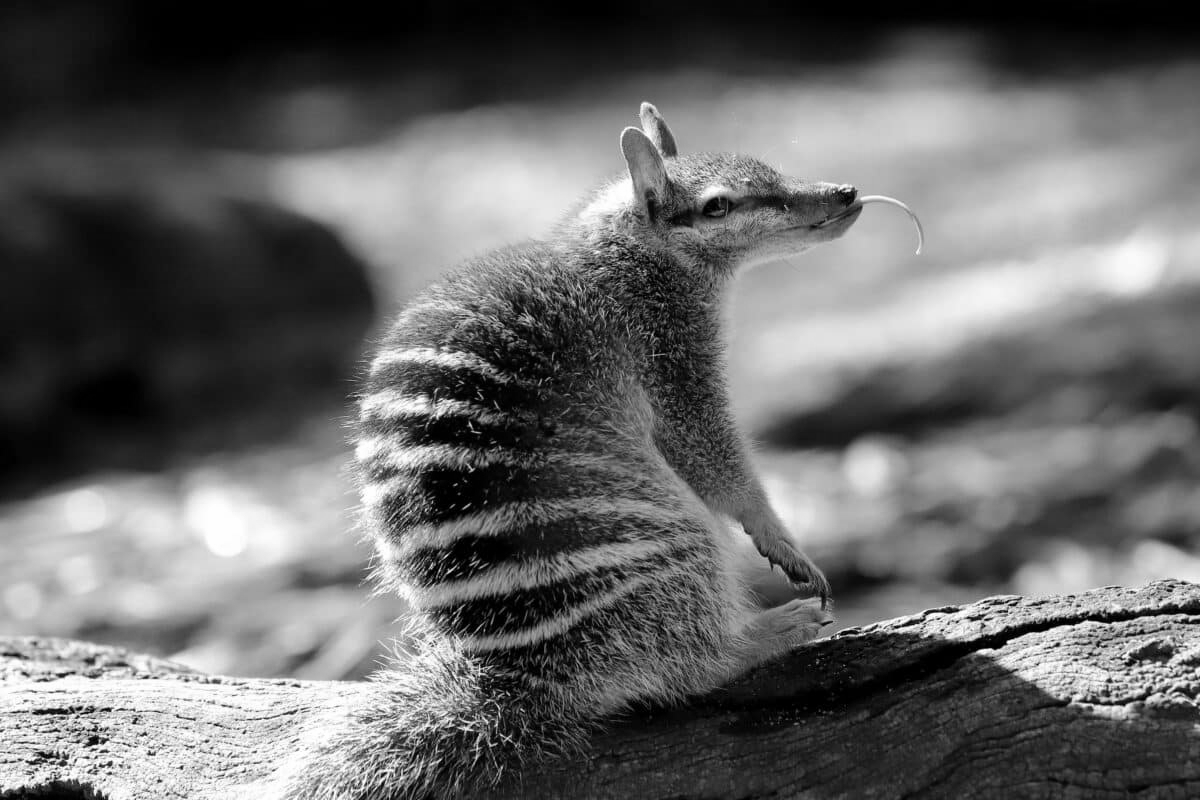
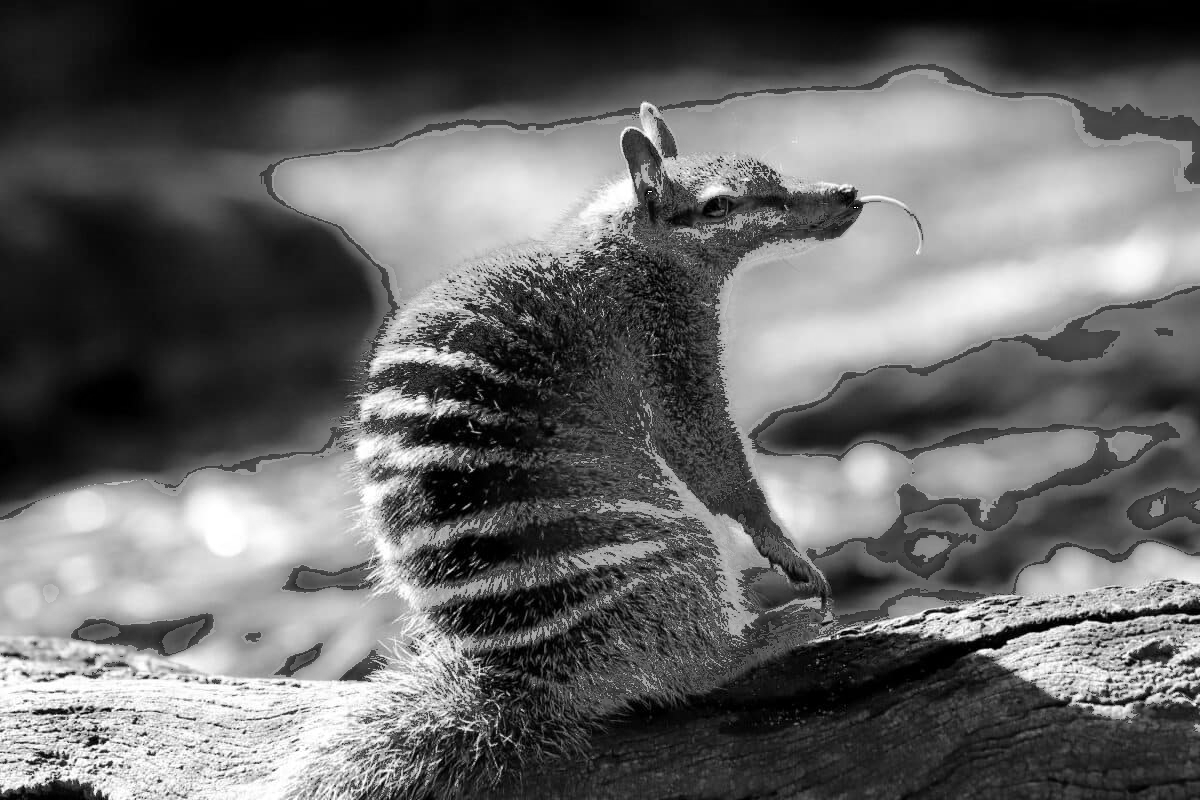
I think there's something wronng with my kernel calculation, trying to fix it

diff --git a/edgeDetection/edgeDetectionSequential/canny_sequential.cpp b/edgeDetection/edgeDetectionSequential/canny_sequential.cpp
@@ -23,11 +23,9 @@
 constexpr int kernelSize = 5;
 
 void cannyEdgeDetection (int filterSize);
-void grayscale (int width, int height, int channels);
+void grayscale(int width, int height, int channels, std::vector<char> v);
 void gaussianKernel (double kernel[kernelSize][kernelSize]);
-void gaussianBlur(int width, int height);
-
-unsigned char* image;
+void gaussianBlur(int width, int height, std::vector<char> imV);
 
 int main () {
     std::cout << "Beginning run" << std::endl;
@@ -40,16 +38,18 @@ void cannyEdgeDetection (int filterSize) {
     // Steps for Algorithm
     // open image
     int width, height, channels;
+    unsigned char *image;
+    
     image = stbi_load("..\\numbat.jpeg", &width, &height, &channels, 3);
     std::vector<char> iVector(image, image + width * height * channels);
 
     std::cout << "Loaded image with a width of " << width << ", a height of " << height << " and " << channels << " channels" << std::endl; 
 
     // Grayscale the Image to 
-    grayscale(width, height, channels);
+    grayscale(width, height, channels, iVector);
     
     // Noise reduction (Gaussian blur/filter)
-    gaussianBlur(width,height);
+    gaussianBlur(width,height, iVector);
 
     // Gradient Calculation
     // Non-maximum suppression
@@ -65,37 +65,21 @@ void cannyEdgeDetection (int filterSize) {
  * https://tannerhelland.com/2011/10/01/grayscale-image-algorithm-vb6.html
  * 
  */
-void grayscale(int width, int height, int channels) {
 
-    // Allocate
-    unsigned char* grayImage = (unsigned char*) malloc(width * height * sizeof(unsigned char));
-
-    // Gray = (Red * 0.2126 + Green * 0.7152 + Blue * 0.0722)
-    for (int imageCtr = 0; imageCtr < width * height * channels; imageCtr += channels) {
-        grayImage[imageCtr / 3] = (image[imageCtr] * 0.2126 + image[imageCtr + 1] * 0.7152 + image[imageCtr + 2] * 0.0722);
-    }
-
-    memcpy(image, grayImage, width * height);
-
-    // Write grayscaled Image as a log
-    stbi_write_jpg("..\\exampleImages\\grayscaled.jpg", width, height, 1, image, width);
-
-}
-
-void grayscale(int width, int height, int channels, std::vector<char> vector) {
+void grayscale(int width, int height, int channels, std::vector<char> v) {
 
     // Allocate
     std::vector<char> grayVec;
 
     // Gray = (Red * 0.2126 + Green * 0.7152 + Blue * 0.0722)
     for (int imageCtr = 0; imageCtr < width * height * channels; imageCtr += channels) {
-        grayVec.push_back(); // image[imageCtr] * 0.2126 + image[imageCtr + 1] * 0.7152 + image[imageCtr + 2] * 0.0722);
+        grayVec.push_back(v.at(imageCtr) * 0.2126 + v.at(imageCtr + 1) * 0.7152 + v.at(imageCtr + 2) * 0.0722); // image[imageCtr] * 0.2126 + image[imageCtr + 1] * 0.7152 + image[imageCtr + 2] * 0.0722);
     }
 
-    memcpy(image, grayVec, width * height);
+    v = grayVec;
 
     // Write grayscaled Image as a log
-    stbi_write_jpg("..\\exampleImages\\grayscaled.jpg", width, height, 1, image, width);
+    stbi_write_jpg("..\\outputImages\\grayscaled.jpg", width, height, 1, reinterpret_cast<char*>(grayVec.data()), width);
 
 }
 
@@ -108,7 +92,7 @@ void gaussianKernel (double kernel[kernelSize][kernelSize]) {
  
     for (int i = 0; i < kernelSize; i++) {
         for (int j = 0; j < kernelSize; j++) {
-            kernel[i][j] = exp( -0.5 * (pow((i - mean) / sigma, 2.0) + pow((j - mean) / sigma, 2.0)) ) / (2 * M_PI * sigma * sigma);
+            kernel[i][j] = exp(-1.0 * ((i * i + j * j) / (2 * sigma * sigma))) / (2 * M_PI * sigma * sigma);
             sum += kernel[i][j];
         }
     }
@@ -143,41 +127,39 @@ for each image row in input image:
 
          set output image pixel to accumulator
 */
-void gaussianBlur(int width, int height) {
+void gaussianBlur(int width, int height, std::vector<char> imV) {
     double kernel[kernelSize][kernelSize];
 
     gaussianKernel(kernel);
-    int len = sizeof(image) / sizeof(*image);
-
-    stbi_write_jpg("..\\exampleImages\\preblur.jpg", width, height, 1, image, width);
+    int len = imV.size();
 
     // Convolve the matrix
-    for (int i = 0; i < height; i++) {
-        for (int j = 0; j < width; j++) {
-            float accumX = 0;
-            float accumY = 0;
+    // for (int i = 0; i < height; i++) {
+    //     for (int j = 0; j < width; j++) {
+    //         float accumX = 0;
+    //         float accumY = 0;
             
-            for (int k = 0; k < kernelSize; k++) {
-                for (int l = 0; l < kernelSize; l++) {
-                    float valX = 0.0;
-                    float valY = 0.0;
+    //         for (int k = 0; k < kernelSize; k++) {
+    //             for (int l = 0; l < kernelSize; l++) {
+    //                 float valX = 0.0;
+    //                 float valY = 0.0;
 
-                    // If we're reaching into the next row (overflowing on right side of image), set multiplier to 0.0
-                    if ((i + k) * width + j + l > width * (i + k + 1) || (i + k) * width + j + l > width * height) {
-                        valX = 0.0;
-                        valY = 0.0;
-                    } else {
-                        valX = image[(i + k) * width];
-                        valY = image[(i + k) * width + j + l];
-                    }
+    //                 // If we're reaching into the next row (overflowing on right side of image), set multiplier to 0.0
+    //                 if ((i + k) * width + j + l > width * (i + k + 1) || (i + k) * width + j + l > width * height) {
+    //                     valX = 0.0;
+    //                     valY = 0.0;
+    //                 } else {
+    //                     valX = image[(i + k) * width];
+    //                     valY = image[(i + k) * width + j + l];
+    //                 }
 
-                    accumX += valX * kernel[k][l];
-                    accumY += valY * kernel[k][l];
-                }
-            }
-            image[i * width + j] = (char) sqrt(accumX * accumX + accumY * accumY); // fmax(0, fmin(255, 
-        }
-    }
+    //                 accumX += valX * kernel[k][l];
+    //                 accumY += valY * kernel[k][l];
+    //             }
+    //         }
+    //         image[i * width + j] = (char) sqrt(accumX * accumX + accumY * accumY); // fmax(0, fmin(255, 
+    //     }
+    // }
 
-    stbi_write_jpg("..\\exampleImages\\gaussBlur.jpg", width, height, 1, image, width);
+    // stbi_write_jpg("..\\exampleImages\\gaussBlur.jpg", width, height, 1, image, width);
 }
